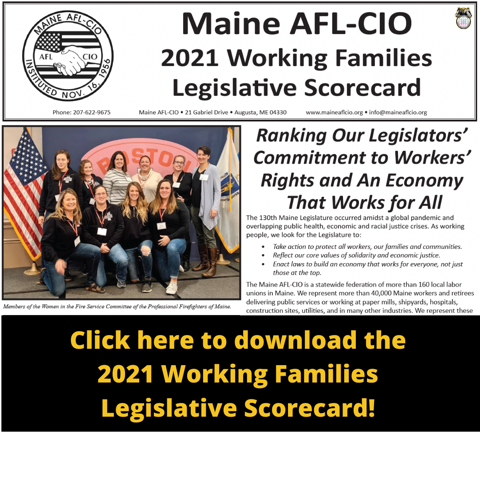
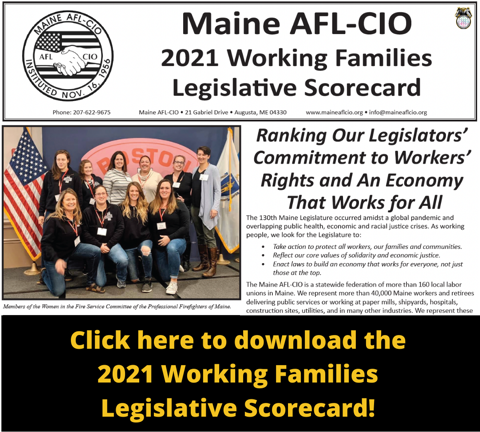
clickable thumbnail
add scorecard clickable thumb to homepage

diff --git a/src/components/Legislators.js b/src/components/Legislators.js
@@ -2,6 +2,7 @@ import React from 'react'
 import FindMyLegislators from './FindMyLegislators'
 import LegislatorCard from './LegislatorCard'
 import withStore from '../services/legislators-store'
+import thumbnail from '../assets/images/2021-scorecard-cover.png'
 
 
 export default withStore(function Legislators(props) {
@@ -33,6 +34,9 @@ export default withStore(function Legislators(props) {
             <h1 className="zero-state-message">
               <a href="/pdf/2021-Working-Families-Scorecard.pdf">Download the 2021 Scorecard [PDF]</a>           
             </h1>
+            <a href="/pdf/2021-Working-Families-Scorecard.pdf">
+              <img src={thumbnail} alt="2021 Scorecard Thumbnail" class="homepage-thumb" />
+            </a>  
             <h1 className="zero-state-message">
               Can't find what you're looking for? Check out <a href="http://groundgamer.org" target="_blank" rel="noopener noreferrer">GroundGamer.org</a>.
             </h1>

diff --git a/src/App.css b/src/App.css
@@ -541,6 +541,10 @@ input.popover-input {
     margin-top: 2rem;
     margin-bottom: 2rem;
   }
+
+  .legislators img.homepage-thumb {
+    max-width: 98%;
+  }
 }
 
 
